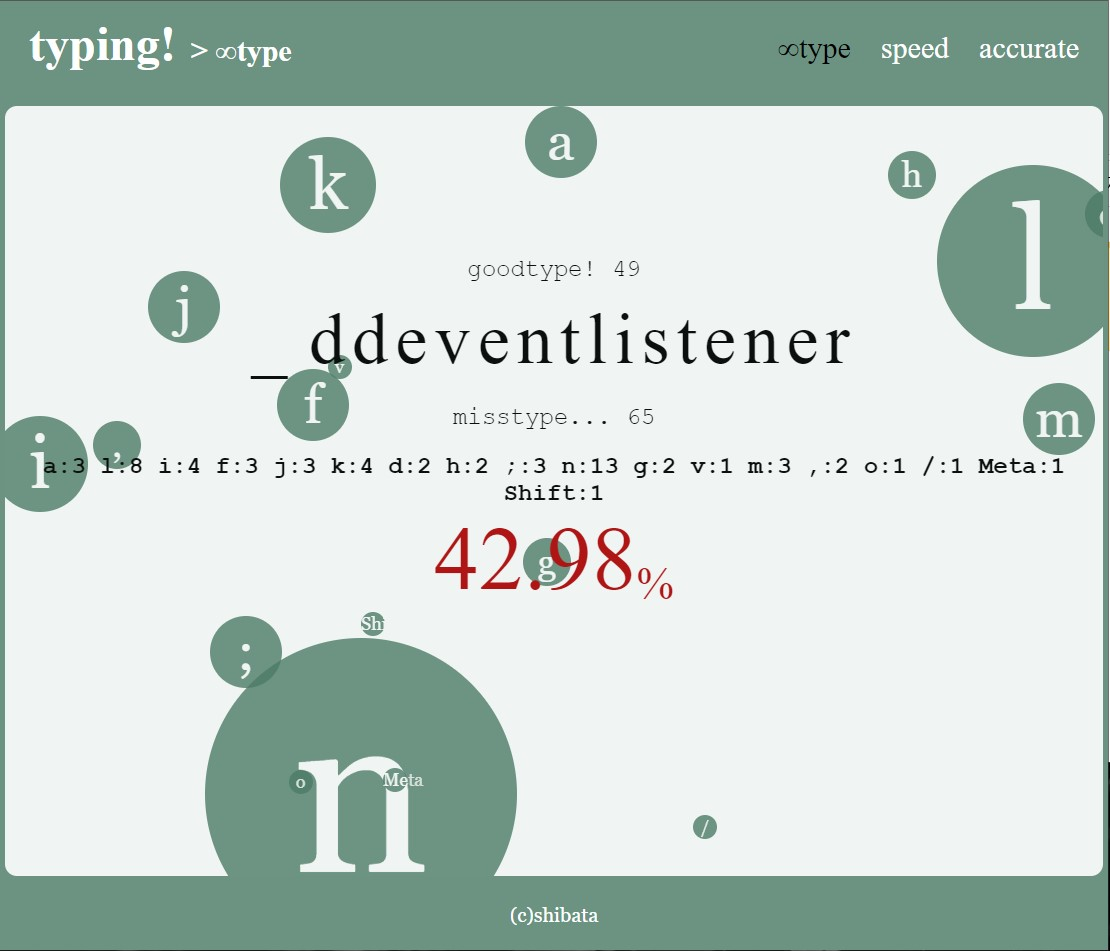
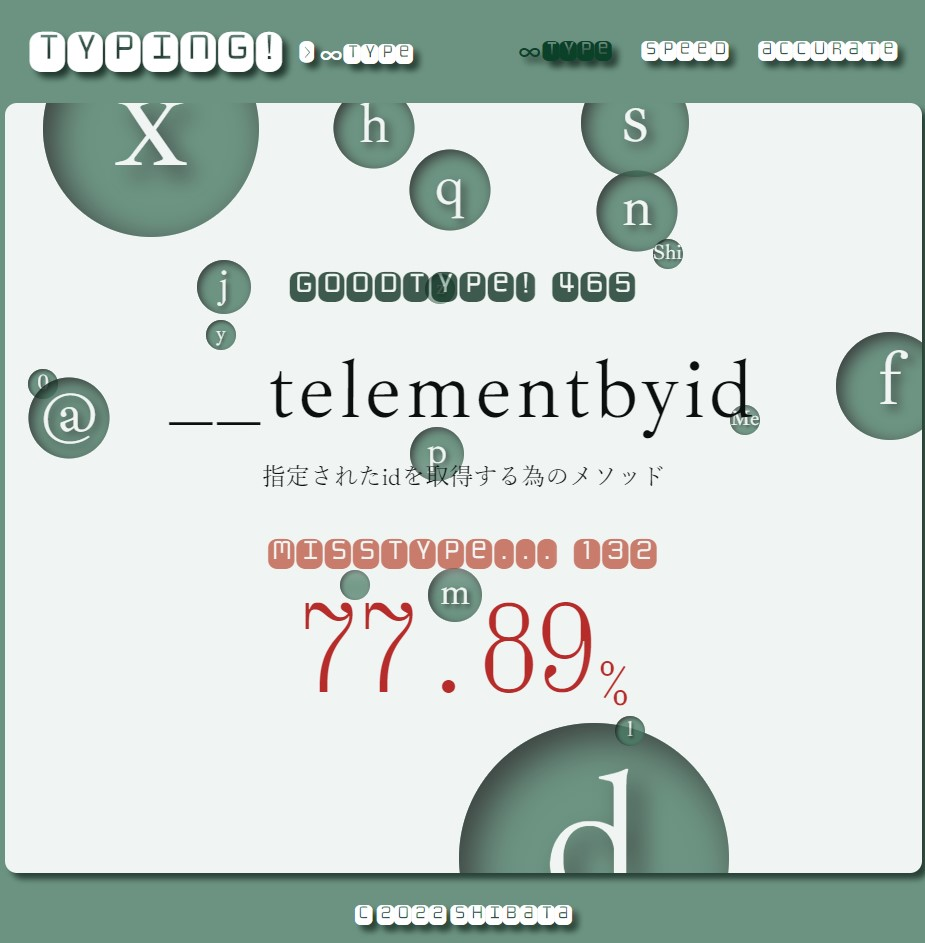
点数の導入とボーナスアニメーションの追加

diff --git a/js/main.js b/js/main.js
@@ -32,10 +32,11 @@
 
   //サウンドエフェクト
   const typeSound = new Audio("sound/カタッ(Enterキーを押した音).mp3");
-  typeSound.volume = 0.5;
+  typeSound.volume = 0.4;
   const resetSound = new Audio("sound/受話器置く03.mp3");
-  const badSound = new Audio("sound/パッ.mp3");
-  badSound.volume = .9;
+  resetSound.volume = 0.8;
+  const bubbleSound = new Audio("sound/パッ.mp3");
+  bubbleSound.volume = .9;
 
   //ミスタイプのキーリスト
   const missType = [];
@@ -44,6 +45,7 @@
   let scoreCount = 0;
   let badCount = 0;
   let accuracyRate;
+  let continuousCorrect = 0;
 
   //問題のセット
   function setQuestion(){
@@ -53,9 +55,41 @@
     mean.textContent = q.mean;
   };
 
+  //ボーナスアニメーション
+  function getBonus(point){
+    let bonus = document.createElement("div");
+    bonus.className = "bonus";
+    bonus.style.top = `${Math.random() * 50 + 40}%`;
+    let LorR = Math.floor(Math.random() * 2);
+    if(LorR === 0){
+      bonus.style.left = `${Math.random() * 20 + 5}%`;
+    } else {
+      bonus.style.right = `${Math.random() * 20 + 2}%`;
+    }
+    bonus.textContent = `${point * 10}type`;
+    bonus.style.width = `${point * 6 + 60}px`;
+    bonus.style.height = `${point * 6 + 60}px`;
+    bonus.style.lineHeight = `${point * 6 + 75}px`;
+    bonus.style.fontSize = `${point * 1.5 + 16}px`;
+    bonus.style.backgroundColor = `hsla(${Math.random() * 360}, 65%, 55%, .6)`;
+    bonus.style.animation = "up 5s ease-in forwards,bubble 1s ease-out 5s";
+    bonus.addEventListener("animationend",()=>{
+      bonus.classList.add("explosion");
+        bubbleSound.currentTime = 0;
+        bubbleSound.play();
+        //アニメーションが終了したら要素を消す
+        bonus.addEventListener("animationend",()=>{
+          bonus.classList.add("disabled");
+        });
+    });
+    balloonRoom.appendChild(bonus);
+    bubbleSound.currentTime = 0;
+    bubbleSound.play()
+  };
+
   //パーセンテージの表示
   function renderRate(){
-    let accuracyRate = (scoreCount / (scoreCount + badCount) * 100).toFixed(2);
+    accuracyRate = (scoreCount / (scoreCount + badCount) * 100).toFixed(2);
     accuracy.textContent = accuracyRate;
     rate.classList.remove("safe","caution","dead");
     if(accuracyRate >= 95){
@@ -72,8 +106,8 @@
     let balloon = document.createElement("div");
     balloon.className = "balloon";
     balloon.id = `${key}`;
-    balloon.style.top = `${Math.random() * 100}%`;
-    balloon.style.left = `${Math.random() * 100}%`;
+    balloon.style.top = `${Math.random() * 98 + 1}%`;
+    balloon.style.left = `${Math.random() * 98 + 1}%`;
     balloon.textContent = `${key}`;
     //カーソルをのせたら数値を表示
     balloon.addEventListener("mouseenter",()=>{
@@ -87,8 +121,8 @@
     //クリックしたら破裂
     balloon.addEventListener("click",()=>{
       balloon.classList.add("explosion");
-      badSound.currentTime = 0;
-      badSound.play();
+      bubbleSound.currentTime = 0;
+      bubbleSound.play();
       //アニメーションが終了したら要素を消す
       balloon.addEventListener("animationend",()=>{
         balloon.classList.add("disabled");
@@ -121,8 +155,13 @@
 
       //スコアを加点
       scoreCount++;
+      continuousCorrect++;
       score.textContent = scoreCount;
       renderRate();
+      //連続正解したらボーナス(10の倍数ごと)
+      if((continuousCorrect % 10) == 0){
+        getBonus(continuousCorrect / 10);
+      };
       //文字を跳ねさせる
       score.classList.add("pyon");
       score.addEventListener("animationend",()=>{
@@ -150,10 +189,9 @@
       bad.addEventListener("animationend",()=>{
         bad.classList.remove("pyon");
       });
-
       //ブザーを鳴らす
-      badSound.currentTime = 0;
-      badSound.play();
+      bubbleSound.currentTime = 0;
+      bubbleSound.play();
 
       //ミスタイプのキーをカウント
       if(missType.find((v) => v.key === e.key)){ //すでにあるなら加点

diff --git a/css/style.css b/css/style.css
@@ -45,7 +45,7 @@ header h2{
 } 
 ul{
   display: flex;
-  margin: 20px 10px;
+  margin: 20px 8px 20px 0;
   padding: 0;
   align-items: center;
 }
@@ -77,7 +77,7 @@ ul li a:hover{
   opacity: 0.9;
   height: calc(100% - 70px - 50px);
   min-height: 400px;
-  width: 99%;
+  width: 97%;
   border-radius: 8px;
   margin: 0 auto;
   text-align: center;
@@ -91,7 +91,6 @@ ul li a:hover{
   align-items: center;
 }
 #container{
-  overflow: hidden;
   width: 100%;
   visibility:hidden;
 }
@@ -102,15 +101,22 @@ ul li a:hover{
   margin: 0 auto;
   height: 20px;
   width: 100%;
+  border-radius: 999px;
+  display: flex;
+  justify-content: center;
+}
+#timer.hidden{
+  display: none;
 }
 .timer{
   background-color: rgb(72, 121, 99);
   box-shadow:inset 4px 4px 6px black;
-  opacity: .8;
-  margin: 0 auto;
+  opacity: .9;
+  margin: auto;
   height: 20px;
   width: 100px;
-  border-radius: 9999px;
+  border-radius: 10px;
+  will-change: transform, width, height ;
 }
 @keyframes timerBifore{
   0%{
@@ -128,22 +134,22 @@ ul li a:hover{
 }
 @keyframes timerAfter{
   0%{
-    transform: scaleX(1);
+    transform: scale(1,1);
   }
-  80%{
-    transform: scale(0.2,.9);
-  }
-  90%{
-    transform: scale(0.1,.8);
+  97%{
+    width: 20px;
+    height: 20px;
   }
   100%{
-    transform: scale(0,0);
+    width: 0px;
+    height: 0px;
   }
 }
 #typed,
 #untype{
   overflow-wrap: break-word;
   width: 100%;
+  height: 65px;
   color: black;
   font-family: 'Ibarra Real Nova', serif;
   font-size: 55px;
@@ -151,13 +157,23 @@ ul li a:hover{
   display: inline;
   opacity: 1;
 }
-#untype.flash{
-  animation: flash 2s linear infinite;
+#untype.score{
+  height: 85px;
+  font-size: 73px;
+  font-family: 'Xanh Mono', monospace;
+}
+#untype.score::before{
+  content: "score";
+  font-size: 40px;
+}
+#untype.score::after{
+  content: "pt";
+  font-size: 40px;
 }
 #goodtype{
   display: flex;
   justify-content: center;
-  padding: 0 0 20px;
+  padding: 10px 0 20px;
   font-size: 30px;
   letter-spacing: .05em;
   opacity: .8;
@@ -262,7 +278,7 @@ ul li a:hover{
   background-color: rgb(72, 121, 99);
   color: #fff;
   text-shadow: 1px 1px 2px black;
-  z-index: -1;
+  z-index: -2;
   position: absolute;
   opacity: .8;
   transition: transform 1.2s;
@@ -274,14 +290,13 @@ ul li a:hover{
 .balloon:hover{
   z-index: 1;
 }
-.balloon.explosion{
+.explosion{
   animation: bubble 1s ease-out;
   pointer-events: none;
 }
-.balloon.explosion.disabled{
+.explosion.disabled{
   display: none;
 }
-
 @keyframes bubble{
   0%{
     box-shadow: 0 0 3px 2px rgba(255,255,255,0),
@@ -306,6 +321,44 @@ ul li a:hover{
     0 0 2px 5px rgba(255,255,255,1) inset,
     0 0 2px 5px rgba(255,255,255,1),
     0 0 2px 5px rgba(0,0,0,1);
+  }
+}
+.bonus::before{
+  content: "bonus!";
+  position: absolute;
+  top: -25%;
+  left: 0;
+  right: 0;
+  text-align: center;
+  font-size: 0.8em;
+}
+.bonus{
+  font-size: 16px;
+  position: absolute;
+  font-family: 'Ibarra Real Nova', serif;
+  text-align: center;
+  border-radius: 50%;
+  color: #fff;
+  box-shadow:inset 2px 2px 5px black;
+  /* inset -5px -5px 20px 5px rgba(0,0,0,.5); */
+  text-shadow: inset 1px 1px 2px black;
+  z-index: -1;
+}
+@keyframes up{
+  0%{
+    transform: scale(0),translate(0);
+  }
+  0.3%{
+    transform: scale(1.1,1.1);
+  }
+  0.6%{
+    transform: scale(.9,.9);
+  }
+  0.9%{
+    transform: scale(1,1),translateX(30px);
+  }
+  100%{
+    transform: translateY(-200px);
   }
 }
 
@@ -389,9 +442,12 @@ footer{
   .normal_menu{
    display: none;
   }
+  #balloonroom{
+    width: 99%;
+  }
   #hambarger{
     display: block;
-    margin: 18px 10px 0 0;
+    margin: 18px 16px 0 0;
     color: #fff;
     font-size: 30px;
     cursor: pointer;
@@ -404,4 +460,11 @@ footer{
     pointer-events: none;
   }
 }
+
+/* fullscreen */
+/* @media(min-width: 800px){
+  #balloonroom{
+    width: 96%;
+  }
+} */
 

diff --git a/js/questions.js b/js/questions.js
@@ -76,6 +76,10 @@ const questions = [
     mean : "要素の透過率を指定する為のプロパティ"},
   {word : "z-index",
     mean : "要素の重なりの優先度を指定する為のプロパティ"},
+  {word : "@keyframes",
+    mean : "詳細にアニメーションを設定できるアットルール"},
+  {word : "@media",
+    mean : "画面のサイズに合わせてcssの適用を変化させるアットルール"},
 
   //javascript
   {word : "helloworld",
